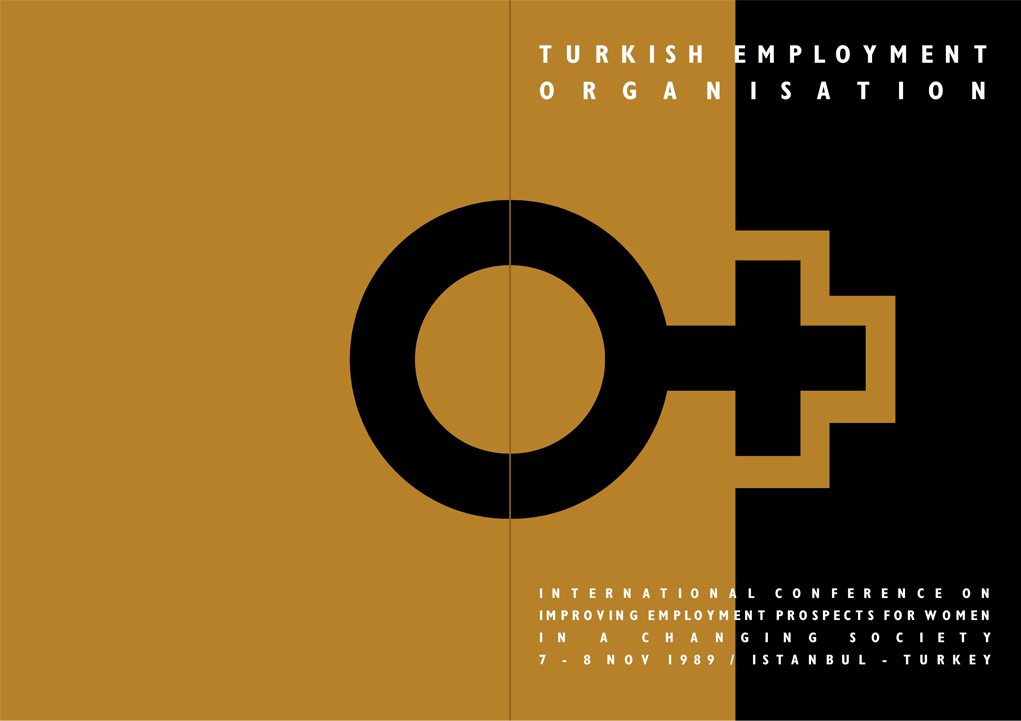
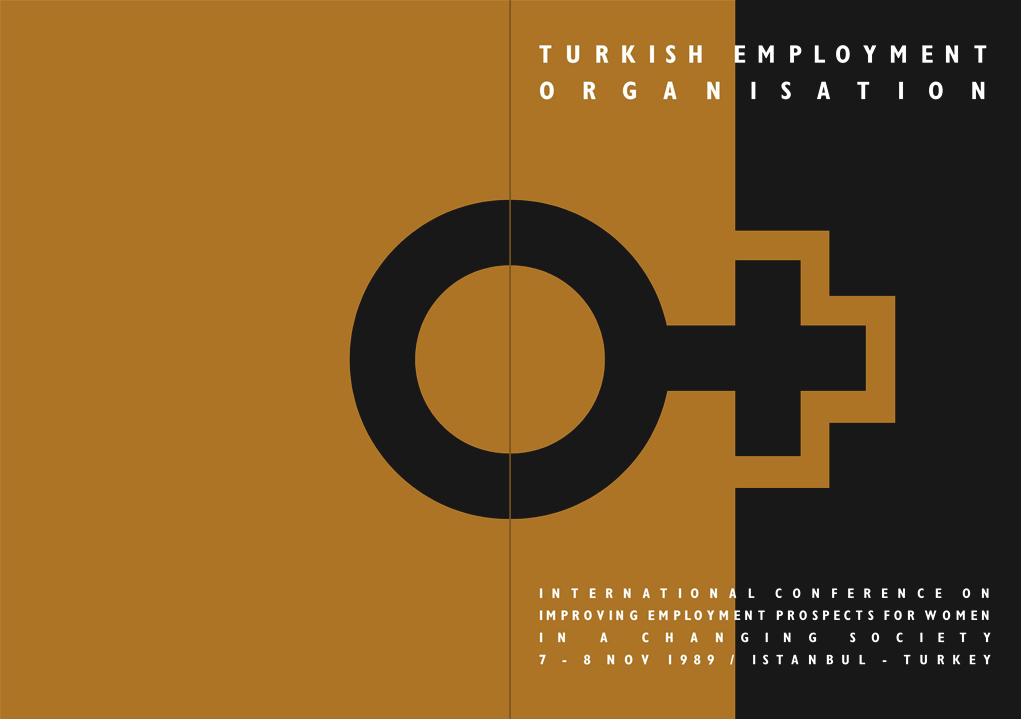
Update portfolio content
- Add British Tourist Authority CD sleeve design (2004-gallery-22.jpg)
- Add AltinYildiz Network CD box design (2000-gallery-9.jpg)
- Update traditional-13a-oecd.jpg
- Update Timeless Graphic Design section descriptions
- Correct OECD conference date (1998 to 1989)
- Refine subtitle formatting in Timeless Graphic Design section

diff --git a/index.html b/index.html
@@ -176,7 +176,7 @@
           <div class="timeline_right">
             <div class="margin-bottom-xlarge">
                   <h3 class="timeline_text">
-                    Logo and Trademark Design, Print Design and Typography
+                    Logo and Trademark Design, Print Design, Typography
                   </h3>
                   <div class="wrap-collabsible">
                     <input id="collapsible-portfolio-logos" class="toggle" type="checkbox" />
@@ -184,7 +184,7 @@
                     <div class="collapsible-content">
                       <div class="content-inner">
                         <ul>
-                          <li>Examples of my traditional Graphic Design skills, including typography, logos, trademarks and print design for various clients, in no particular order.</li>
+                          <li>Examples of my traditional/analog Graphic Design skills, including typography, logos, trademarks and print design for various clients, in no particular order.</li>
                         </ul>
                       </div>
                     </div>
@@ -195,7 +195,7 @@
                     <img src="images/portfolio-logos-main-1.jpg" loading="lazy" width="480" alt="Logos, Trademarks and Typography portfolio" />
                   </div>
                   <img src="images/traditional-1-me.jpg" loading="lazy" width="480" alt="Lorem Ipsum" class="invert-dark" style="display: none;" data-caption="Identity design for myself. 2024." />
-                  <img src="images/traditional-2-arttek.jpg" loading="lazy" width="480" alt="Lorem Ipsum" class="invert-dark" style="display: none;" data-caption="Trademark for Silicon Graphics International Inc. Istanbul re-seller. 1998." />
+                  <img src="images/traditional-2-arttek.jpg" loading="lazy" width="480" alt="Lorem Ipsum" class="invert-dark" style="display: none;" data-caption="Trademark for Silicon Graphics International Inc. re-seller. Istanbul. 1998." />
                   <img src="images/traditional-3-b-and-d.jpg" loading="lazy" width="480" alt="Lorem Ipsum" class="invert-dark" style="display: none;" data-caption="Trademark for B&D bar Istanbul. 1999." />
                   <img src="images/traditional-4-bulkwater.jpg" loading="lazy" width="480" alt="Lorem Ipsum" class="invert-dark" style="display: none;" data-caption="Trademark for Bulkwater A.Ş Istanbul. 1998." />
                   <img src="images/traditional-5-artist-hand.jpg" loading="lazy" width="480" alt="Lorem Ipsum" style="display: none;" data-caption="Personal symbol and trademark for artist and painter. 2002." />
@@ -207,14 +207,14 @@
                   <img src="images/traditional-11-radio-n.jpg" loading="lazy" width="480" alt="Lorem Ipsum" class="invert-dark" style="display: none;" data-caption="Trademark for radio station, Istanbul, 1999" />
                   <img src="images/traditional-12-bulk-shipping.jpg" loading="lazy" width="480" alt="Lorem Ipsum" class="invert-dark" style="display: none;" data-caption="Trademark for shipping company, Istanbul. 1998" />
                   <img src="images/traditional-13-oecd.jpg" loading="lazy" width="480" alt="Lorem Ipsum" class="invert-dark" style="display: none;" data-caption="Logo for OECD Conference on Employment for Women. Istanbul. 1998" />
-                  <img src="images/traditional-13a-oecd.jpg" loading="lazy" width="480" alt="Lorem Ipsum" style="display: none; border: 5px solid #ffffff;" data-caption="Booklet design for OECD Conference on Employment for Women, front and back. Istanbul. 1998" />
+                  <img src="images/traditional-13a-oecd.jpg" loading="lazy" width="480" alt="Lorem Ipsum" style="display: none;" data-caption="Conference programme booklet design for OECD Conference on Employment for Women. Front and back. Istanbul. 1989" />
                   <img src="images/traditional-14-advansys.jpg" loading="lazy" width="480" alt="Lorem Ipsum" style="display: none;" data-caption="Design options for Advansys GMBH business cards. 2002" />
                   <img src="images/traditional-15-clifford-thames-mips.jpg" loading="lazy" width="480" alt="Lorem Ipsum" style="display: none;" data-caption="Concept graphic for Clifford Thames MIPS (Menu Pricing) project. 2002" />
                   <img src="images/traditional-16-menu-pricing-pdf-1.jpg" loading="lazy" width="480" alt="Lorem Ipsum" style="display: none;" data-caption="PDF brochure for Clifford Thames MIPS (Menu Pricing) project. 2002" />
                   <img src="images/traditional-17-menu-pricing-pdf-2.jpg" loading="lazy" width="480" alt="Lorem Ipsum" style="display: none;" data-caption="PDF brochure for Clifford Thames MIPS (Menu Pricing) project. 2002" />
                   <img src="images/traditional-18-vauxhall-cd.jpg" loading="lazy" width="480" alt="Lorem Ipsum" style="display: none;" data-caption="CD design for Vauxhall M-Power software installation discs. 2003" />
                   <img src="images/traditional-19-kritik-mag.jpg" loading="lazy" width="480" alt="Lorem Ipsum" style="display: none;" data-caption="Cover design for Kritik Magazine. Ankara. 1996" />
-                  <img src="images/traditional-20-kritik-graphic.jpg" loading="lazy" width="480" alt="Lorem Ipsum" class="invert-dark" style="display: none;" data-caption="Page section indicator   design for Kritik Magazine. Ankara. 1996" />
+                  <img src="images/traditional-20-kritik-graphic.jpg" loading="lazy" width="480" alt="Lorem Ipsum" class="invert-dark" style="display: none;" data-caption="Page section indicator design for Kritik Magazine. Ankara. 1996" />
                 </div>
           </div>
         </div>
@@ -505,6 +505,7 @@
                   <img src="images/2004-gallery-6.png" loading="lazy" width="480" alt="Circle.com portfolio showcase" style="display: none;" data-caption="Interactive CD for Circle.com marketing and self-promotion." />
                   <img src="images/2004-gallery-7.png" loading="lazy" width="480" alt="Circle.com services overview" style="display: none;" data-caption="Interactive CD for Circle.com marketing and self-promotion." />
                   <img src="images/2004-gallery-8.png" loading="lazy" width="480" alt="Circle.com case studies" style="display: none;" data-caption="Interactive CD for Circle.com marketing and self-promotion." />
+                  <img src="images/2004-gallery-22.jpg" loading="lazy" width="480" alt="British Tourist Authority CD" style="display: none;" data-caption="Sleeve design for the British Tourist Authority Interactive CD." />
                   <img src="images/2004-gallery-9.jpg" loading="lazy" width="480" alt="British Tourist Authority CD" style="display: none;" data-caption="Interactive CD for the British Tourist Authority." />
                   <img src="images/2004-gallery-10.jpg" loading="lazy" width="480" alt="Tourism multimedia interface" style="display: none;" data-caption="Interactive CD for the British Tourist Authority." />
                   <img src="images/2004-gallery-11.jpg" loading="lazy" width="480" alt="UK tourism destinations" style="display: none;" data-caption="Interactive CD for the British Tourist Authority." />
@@ -671,11 +672,11 @@
                   <img src="images/2000-gallery-2.jpg" loading="lazy" width="480" alt="Citibank rewards selection interface" style="display: none;" data-caption="Citibank Turkey Rewards Microsite interactive rewards selection page." />
                   <img src="images/2000-gallery-3.jpg" loading="lazy" width="480" alt="AltinYildiz Network fashion website" style="display: none;" data-caption="AltinYildiz Network homepage. Altinyildiz is a premiere haute couture fashion house who were launching their 'NetWork' collection. This was their first website and online campaign." />
                   <img src="images/2000-gallery-4.jpg" loading="lazy" width="480" alt="AltinYildiz product catalog" style="display: none;" data-caption="AltinYildiz products page." /> 
+                  <img src="images/2000-gallery-9.jpg" loading="lazy" width="480" alt="Toys R Us Turkey games portal" style="display: none;" data-caption="AltinYildiz Network Interactive CD box design." />
                   <img src="images/2000-gallery-5.jpg" loading="lazy" width="480" alt="AltinYildiz Network CD interface" style="display: none;" data-caption="AltinYildiz Network Interactive CD main screen. Built with Macromedia Director, Lingo and Shockwave." />
                   <img src="images/2000-gallery-6.jpg" loading="lazy" width="480" alt="AltinYildiz winter collection" style="display: none;" data-caption="AltinYildiz Network Interactive CD Fall-Winter 1999-2000 collection page." />
                   <img src="images/2000-gallery-7.jpg" loading="lazy" width="480" alt="AltinYildiz music player" style="display: none;" data-caption="AltinYildiz Network Interactive CD jukebox screen featuring free-bonus tracks encoded with Shockwave audio, which was the predecessor of MP3s." />
                   <video src="videos/network.mp4" poster="videos/network-poster.jpg" style="display: none;" data-caption="Altinyildiz Network launch advert for film and TV. This campaign featured tracks from the UK Electronic Dance act Underworld." controls preload="none"></video>
-                  <img src="images/2000-gallery-8.png" loading="lazy" width="480" alt="Toys R Us Turkey games portal" style="display: none;" data-caption="Toys'R'Us Turkey. Homepage of Flash Games Microsite for kids." />
                 </div>
               </div>
             </div>